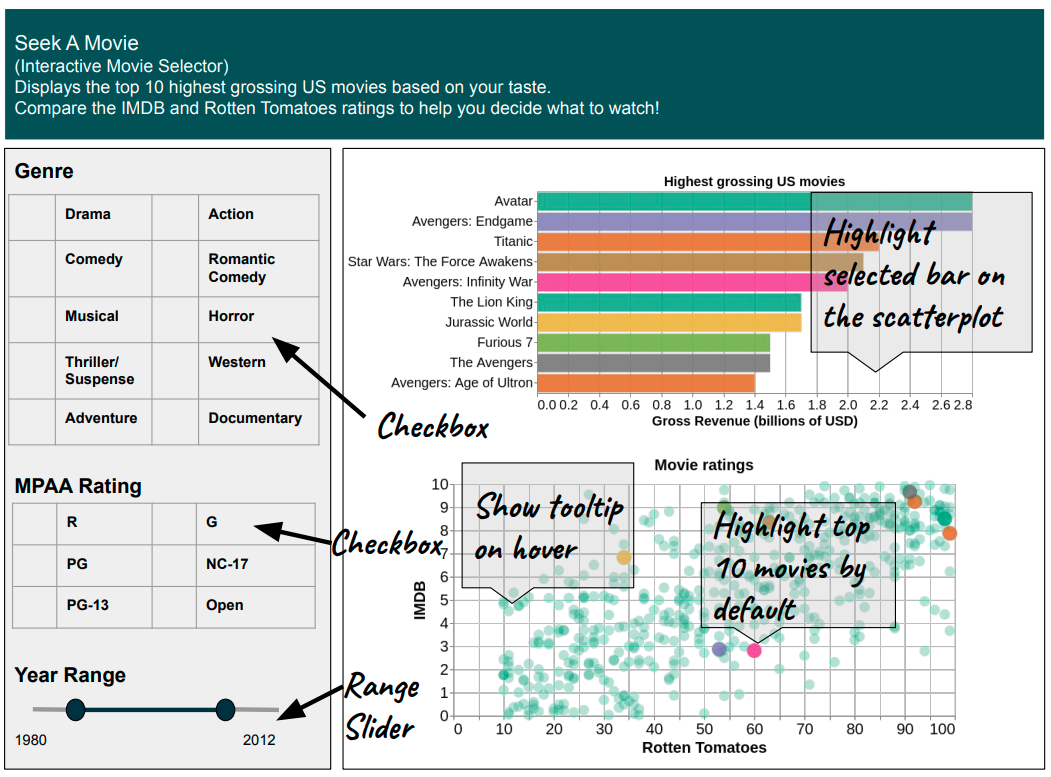
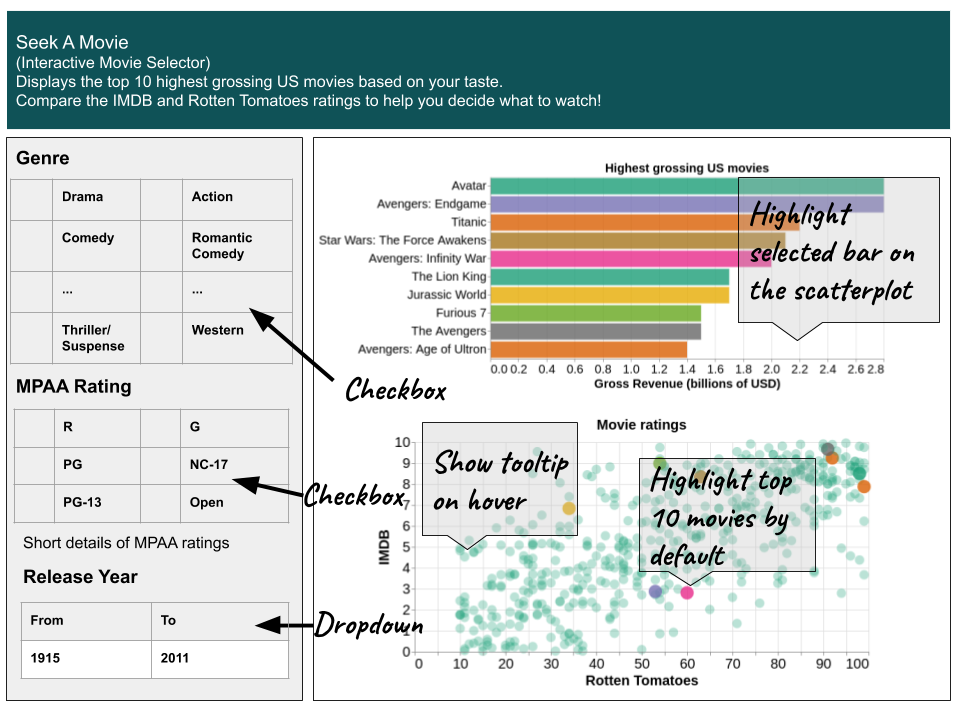
[ENH]modified app sketch and README.md no changein proposal.md

Changed region(s): [[0.0, 0.0, 1.0, 1.0]]

diff --git a/README.md b/README.md
@@ -1,25 +1,25 @@
 # DSCI_532_group_205
 ### Seek A Movie  
-A movie selection dashboard built in Python using Plotly-Dash  
+A movie selection dashboard built in R using Plotly-DashR 
 
 ## Description of the app
-`Seek A Movie` is a web application designed to help users select top grossing US movies to watch based on their preferences. Using the graphical user interface in the left panel, the user can select various options to filter movies and the app will select the best movies to watch based on total gross revenue. The first component is a checkbox that allows the user to select one or more of the different genres available. The second component is also a checkbox that can be used to select the various MPAA ratings. The final component is a range slider that can be used to select a range of release years for the movie.   
+`Seek A Movie` is a web application designed to help users select top grossing US movies to watch based on their preferences. Using the graphical user interface in the left panel, the user can select various options to filter movies and the app will select the best movies to watch based on total gross revenue. The first component is a checkbox that allows the user to select one or more of the different genres available. The second component is also a checkbox that can be used to select the various MPAA ratings. A short decsription of each of the MPAA ratings is given below the checkbox. The final component is a dropdown menu where the user can select a range of movie release years they are inerested in by selecting a from year and a to year.    
 
-Based on the selection made by the user, the app will find the top 10 grossing US movies and display them on a bar chart. The scatterplot in the bottom will show the IMDB and Rotten Tomatoes ratings of all movies in the database. By default, the top 10 movies will be highlighted in the scatterplot with matching colours from the bar graph. When the user clicks on a particular movie on the bar chart, only that movie will be highlighted in the scatterplot. The scatterplot will be interactive with options to zoom and pan. When the mouse pointer hovers over the points in the scatterplot, the tooltip would display the movie name and ratings.     
+Based on the selection made by the user, the app will find the top 10 grossing US movies and display them on a bar chart. The scatterplot in the bottom will show the IMDB and Rotten Tomatoes ratings of all movies in the database. By default, the top 10 movies will be highlighted in the scatterplot with matching colours from the bar graph. When the user clicks on a particular movie on the bar chart, only that movie will be highlighted in the scatterplot. When the mouse pointer hovers over the points in the scatterplot, the tooltip would display the movie name and ratings.     
 
 ## Sketch of the app
 !["sketch"](img/app_sketch.png) 
 
 ## Link to the deployed app:  
-https://dsci-532-group-205-milestone2.herokuapp.com/  
+Not yet deployed.
 
 ## Functionalities of the app  
 1. The app shows the top 10 grossing US movies and the IMDB and Rotten Tomatoes ratings,  filtered by genre, rating and release year specified by the user.   
 2. Users can select one or more genres from the left panel.
 3. Users can select one or more ratings from the left panel.  
-4. Users can select a range of years for the movie release years.  
+4. Users can select a range of years for the movie release years using the dropdown menus.  
 5. Plots will be updated as per the selection by the user. 
 6. Barchart shows the gross revenues of the top 10 movies.  
 7. The scatterplot shows the  IMDB and Rotten Tomatoes ratings of all movies in the database, with the top 10 movies highlighted with colours matching the bars on the bar chart.  
-8. Both plots are interactive. It can zoom and pan. Also, tooltips show relevant information.  
+8. Both plots shows ooltips with relevant information.  
 9. Users can click on a bar in the bar chart and the respective movie in the scatterplot will be highlighted. This helps the user to compare the rating of his chosen movie to other movies.  
